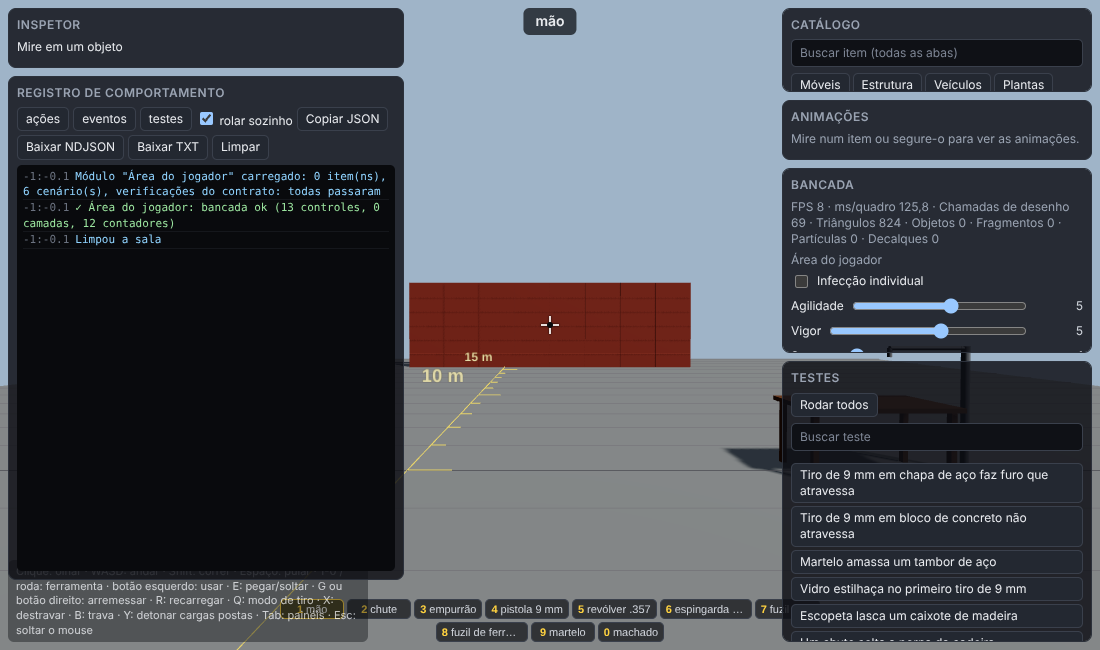
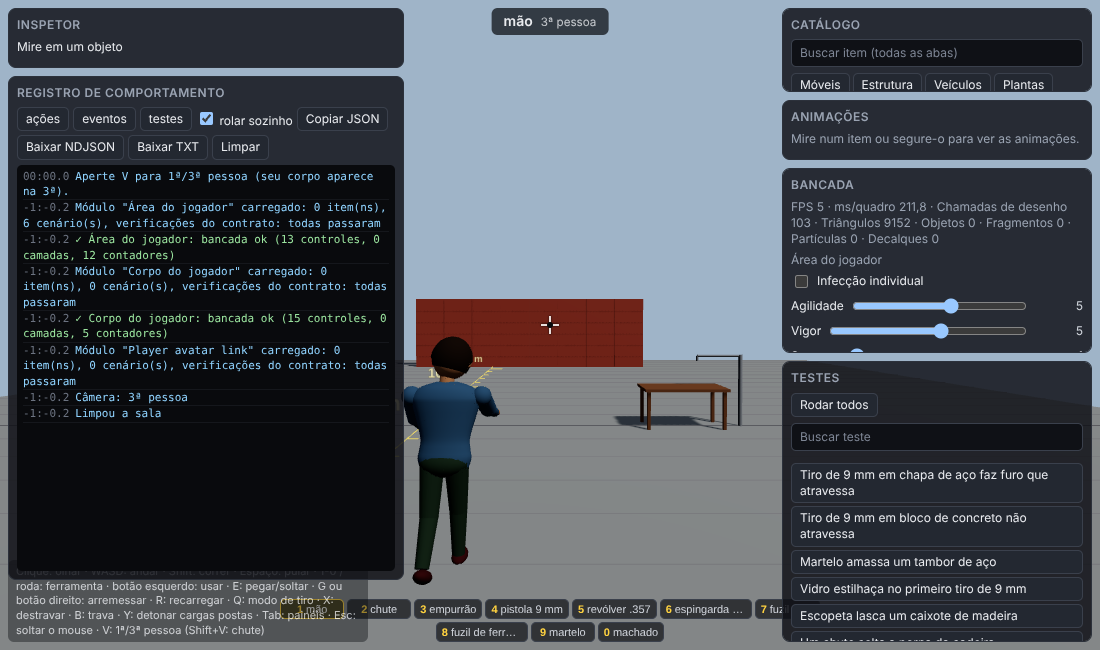
feat(player-test-area): corpo do jogador em 3ª pessoa ligado ao game-player (agachar, derrubada, agarrão)
Claude-Session: https://claude.ai/code/session_01HgByatdLFadDNrc9JqdqwC

diff --git a/examples/player-test-area/src/entry.js b/examples/player-test-area/src/entry.js
@@ -3,19 +3,79 @@
 // camera is the player body, and the footsteps and flesh sounds go to the room's engine (`host.audio`).
 // Bench: individual infection (off by default), agility, vigor, seed; hurt, bite, grab, push, knife, bandage, knocked down, crouch, start again.
 // Metrics: health, stamina, bleeding, wounds, infection, time left, panic, aim spread, grab timer, last noise, footsteps, message.
+//
+// The body: `loadInto` gives the room the player's avatar (`createPlayerAvatar` of @adatechnology/game-characters-three) and starts in third person (V toggles),
+// loads the avatar area (`avatar_area`: view, crouch, fall, armed, the grab and bite clips) and links the player to the body: crouching crouches it, a knock-down
+// (or death) lays it down, and being grabbed plays the Bestiário clip `grabbed_bitten_human` until the player is let go. three.js comes from the page (`options.THREE`,
+// else `window.__THREE`): the bundle never carries a second copy.
 import { PLAYER_DEFAULTS, createPlayer, createPlayerTestModule } from '@adatechnology/game-player'
+import { AVATAR_AREA_ID, createAvatarTestModule, createPlayerAvatar, toRoomAvatar } from '@adatechnology/game-characters-three'
 
-export { PLAYER_DEFAULTS, createPlayer, createPlayerTestModule }
+export { PLAYER_DEFAULTS, createPlayer, createPlayerTestModule, AVATAR_AREA_ID }
+
+const localeOf = (options) => options.locale ?? (new URLSearchParams(globalThis.location?.search ?? '').get('lang') === 'en' ? 'en' : 'pt-BR')
 
 /** The module for the room's locale (`?lang=en` or pt-BR); other pages (the furniture area) load it next to their own. */
 export function createModule(options = {}) {
-  const locale = options.locale ?? (new URLSearchParams(globalThis.location?.search ?? '').get('lang') === 'en' ? 'en' : 'pt-BR')
-  return createPlayerTestModule({ ...options, locale })
+  return createPlayerTestModule({ ...options, locale: localeOf(options) })
 }
 
-/** Creates the module, loads it and opens the player area. Returns the room's module report. */
+/**
+ * A module with no items and no bench that links the gameplay state to the body every frame: the player's crouch, knock-down and death to
+ * `room.setAvatarState`, and a grab to the clip (`grab_clip`, default `grabbed_bitten_human`), which stops when the player is released.
+ */
+export function createAvatarLink(room, playerModule, avatar, options = {}) {
+  const clip = options.grabClip ?? 'grabbed_bitten_human'
+  let grabbed = false
+  return {
+    id: 'player_avatar_link',
+    name: 'Player avatar link',
+    group: 'Avatar link',
+    items: () => [],
+    attach(host) {
+      return host.onFrame(() => {
+        const P = playerModule.player.state
+        const down = P.downTimer > 0 || !P.alive
+        room.setAvatarState({ crouch: P.crouch, down })
+        const nowGrabbed = P.grabbedBy >= 0 && P.alive
+        if (nowGrabbed && !grabbed) {
+          avatar.play(clip)
+          host.log(JSON.stringify({ type: 'avatar', action: 'grabbed', clip }), { type: 'avatar', action: 'grabbed', clip })
+        } else if (!nowGrabbed && grabbed && avatar.playing === clip) {
+          avatar.stop()
+          host.log(JSON.stringify({ type: 'avatar', action: 'released', clip }), { type: 'avatar', action: 'released', clip })
+        }
+        grabbed = nowGrabbed
+      })
+    },
+  }
+}
+
+/**
+ * Creates the player module and the body, loads both areas and the link, and opens the player area in third person. Returns the room's module report
+ * (the player's, plus `avatar` with the avatar area's and `modules`).
+ */
 export function loadInto(room, options = {}) {
-  const report = room.loadModule(createModule(options))
+  const THREE = options.THREE ?? globalThis.__THREE
+  if (!THREE) throw new Error('PlayerArea.loadInto needs three.js: pass { THREE } or expose it as window.__THREE')
+  const locale = localeOf(options)
+  const previous = room.avatar
+  const avatar = createPlayerAvatar(THREE, options.avatar)
+  room.setAvatar(toRoomAvatar(avatar))
+  previous?.avatar?.dispose?.()
+  const playerModule = createModule(options)
+  const report = room.loadModule(playerModule)
+  const avatarReport = room.loadModule(
+    createAvatarTestModule({
+      avatar,
+      locale,
+      camera: { mode: () => room.cameraMode, set: (mode) => room.setCameraMode(mode) },
+      state: { set: (state) => room.setAvatarState(state) },
+    }),
+  )
+  const linkReport = room.loadModule(createAvatarLink(room, playerModule, avatar, options))
+  room.setCameraMode(options.cameraMode ?? 'third')
   room.openArea('player_area')
-  return report
+  const reports = [report, avatarReport, linkReport]
+  return { ...report, ok: reports.every((r) => r.ok), problems: reports.flatMap((r) => r.problems), avatar: avatarReport, modules: reports.map((r) => r.module) }
 }
